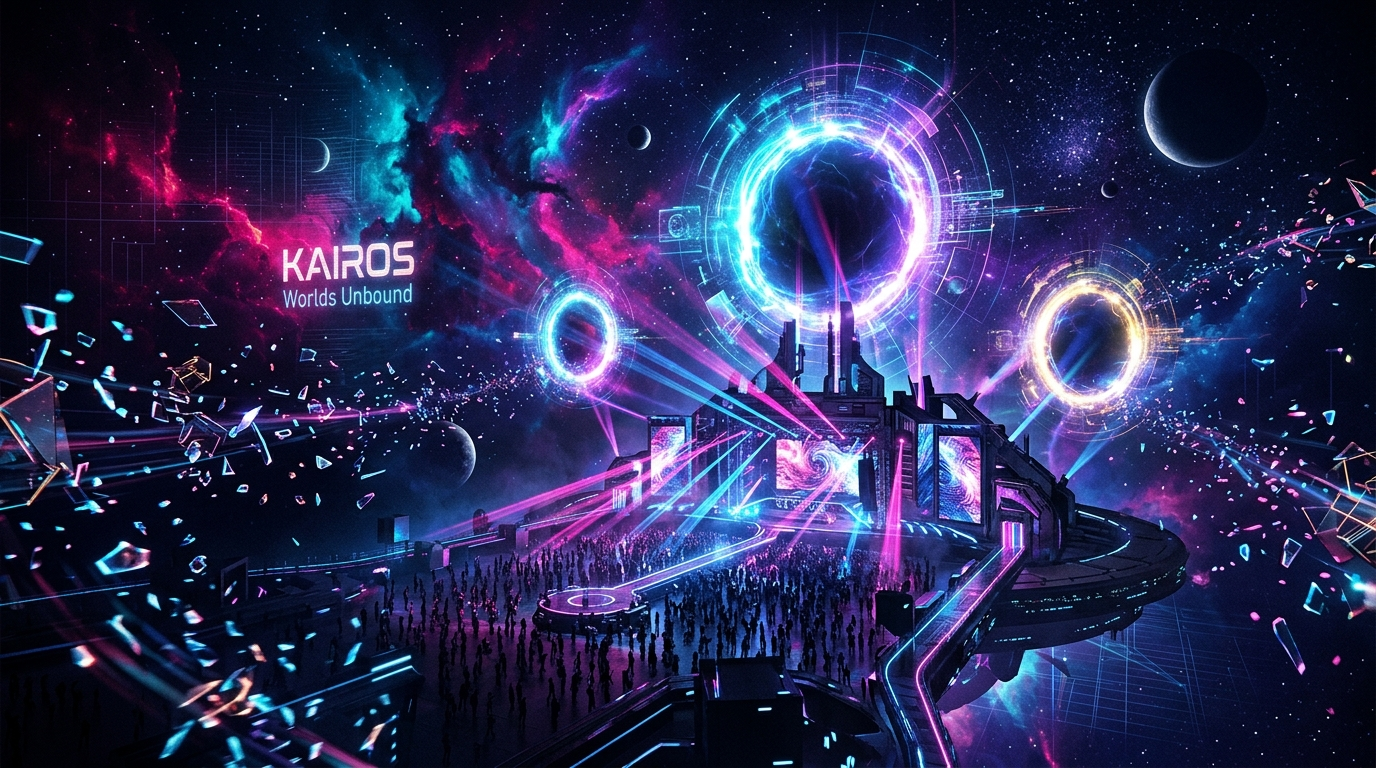
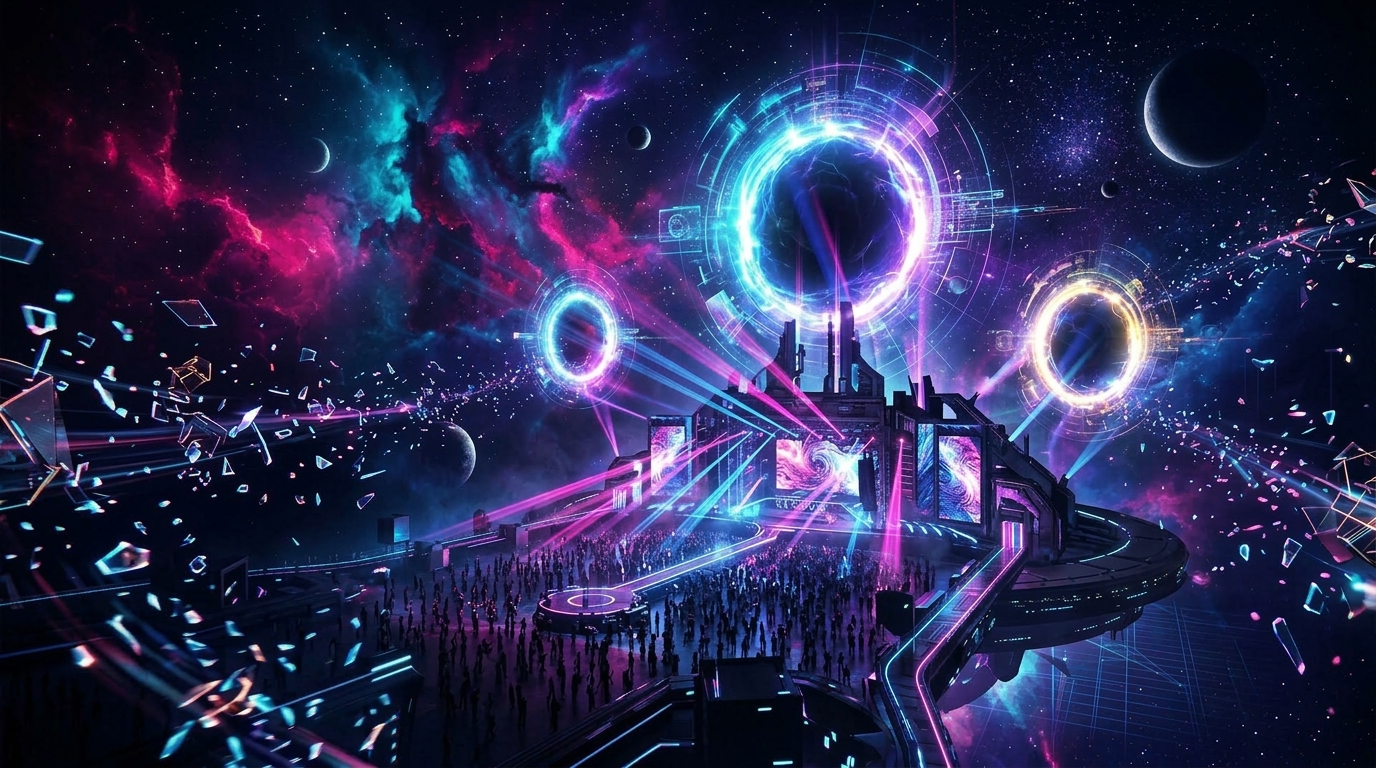
aa

diff --git a/index.html b/index.html
@@ -82,34 +82,8 @@
                             <div class="big-septagon-edge-shadow"></div>
                         </div>
                         <svg viewBox="0 0 100 100" class="big-septagon-frame-svg">
-                            <!-- Outer Layer 1: Septagon (7 sides) -->
-                            <g class="rotate-layer-sync">
-                                <polygon points="50,2.5 87.1,20.4 96.3,60.6 70.6,92.8 29.4,92.8 3.7,60.6 12.9,20.4" class="big-septagon-border-glow" />
-                                <polygon points="50,2.5 87.1,20.4 96.3,60.6 70.6,92.8 29.4,92.8 3.7,60.6 12.9,20.4" class="big-septagon-border-main" />
-                            </g>
-
-                            <!-- Inner Layer 2: Hexagon (6 sides) -->
-                            <g class="rotate-layer-reverse">
-                                <polygon points="50,12 82.9,31 82.9,69 50,88 17.1,69 17.1,31" class="border-hexagon" />
-                            </g>
-
-                            <!-- Inner Layer 3: Pentagon (5 sides) -->
-                            <g class="rotate-layer-sync">
-                                <polygon points="50,21 77.6,41 67.0,73.5 33.0,73.5 22.4,41" class="border-pentagon" />
-                            </g>
-
-                            <!-- Inner Layer 4: Square / Diamond (4 sides) -->
-                            <g class="rotate-layer-reverse">
-                                <polygon points="50,30 70,50 50,70 30,50" class="border-square" />
-                            </g>
-
-                            <!-- Inner Layer 5: Triangle (3 sides) -->
-                            <g class="rotate-layer-sync">
-                                <polygon points="50,38 60.4,56 39.6,56" class="border-triangle" />
-                            </g>
-
-                            <!-- Core Node -->
-                            <circle cx="50" cy="50" r="3" class="border-core-dot" />
+                            <polygon points="50,2.5 87.1,20.4 96.3,60.6 70.6,92.8 29.4,92.8 3.7,60.6 12.9,20.4" class="big-septagon-border-glow" />
+                            <polygon points="50,2.5 87.1,20.4 96.3,60.6 70.6,92.8 29.4,92.8 3.7,60.6 12.9,20.4" class="big-septagon-border-main" />
                         </svg>
                     </div>
                 </div>

diff --git a/style.css b/style.css
@@ -219,7 +219,7 @@ section {
 
 .big-septagon-portal-container {
     position: absolute;
-    top: 22%;
+    top: 36%;
     left: 50%;
     width: clamp(360px, 46vw, 600px);
     height: clamp(360px, 46vw, 600px);
